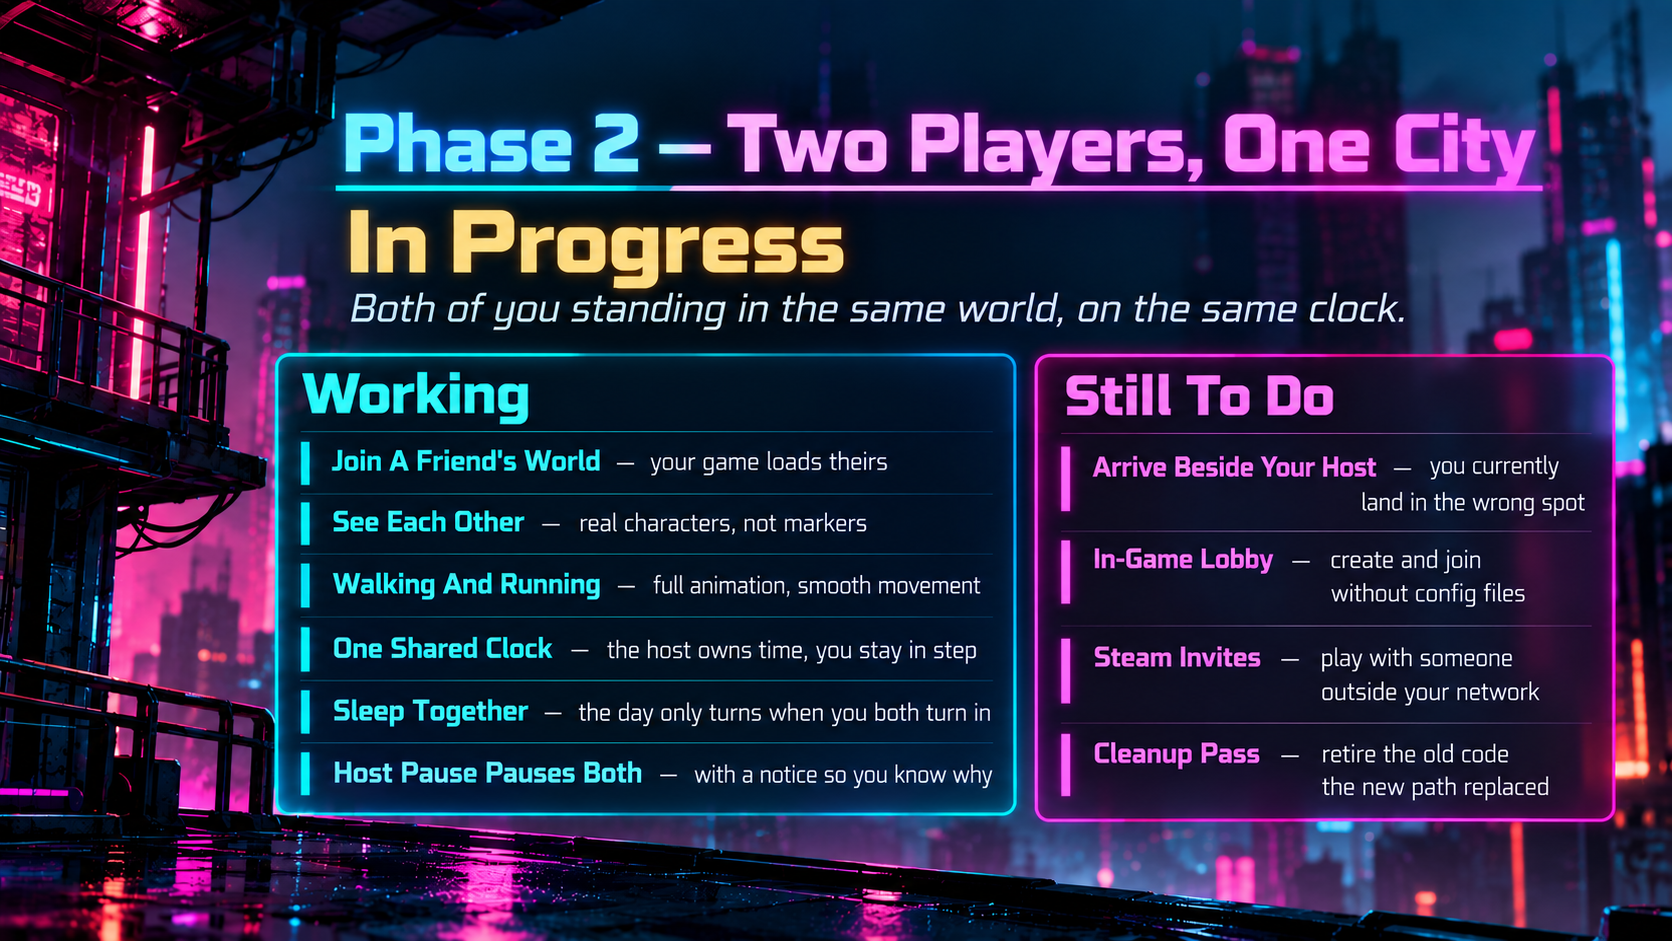
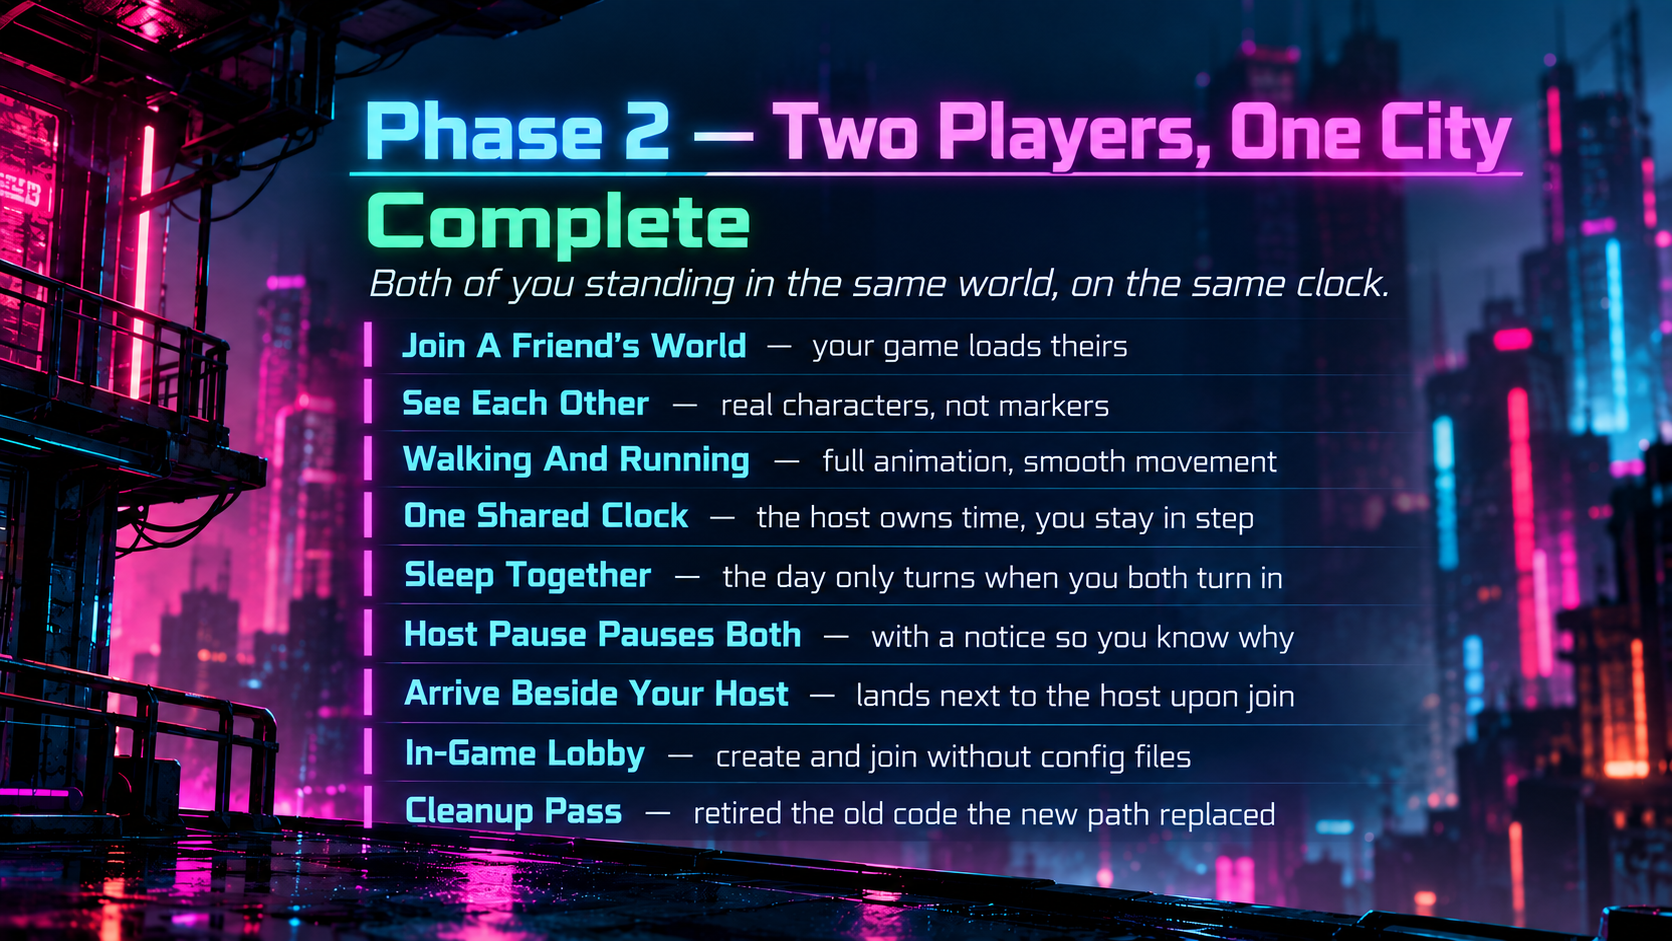
Update the phase graphics for a finished Phase 2 and a started Phase 3

diff --git a/Nightshare/README.md b/Nightshare/README.md
@@ -54,12 +54,15 @@ world and puts them next to the host, on the same clock, in the same room.
 From there you can see each other walking around, time runs once for both of you, and the
 day only turns when you have both gone to bed.
 
-### Phase 3, Next
+![Phase 3: One Living City, in progress](../docs/phase3.png)
 
-**Shared crowds are the next big piece.** Each side currently simulates its own people, so
-you and your host do not see the same characters in the street. Everything you can interact
-with lives there too: shops, doors, and anything where two people touching the same thing
-has to resolve sensibly.
+**Shared crowds are the big one.** Each side currently simulates its own people, so you and
+your host do not see the same characters in the street. That is the clearest remaining sign
+that this is not yet one world rather than two that agree about the time.
+
+Everything you can interact with lives in this phase too, and shared money is the part with
+teeth: two people must never be able to spend the same money, which means the host has to
+settle every transaction rather than each side deducting its own.
 
 ### Phases 4 To 6
 
